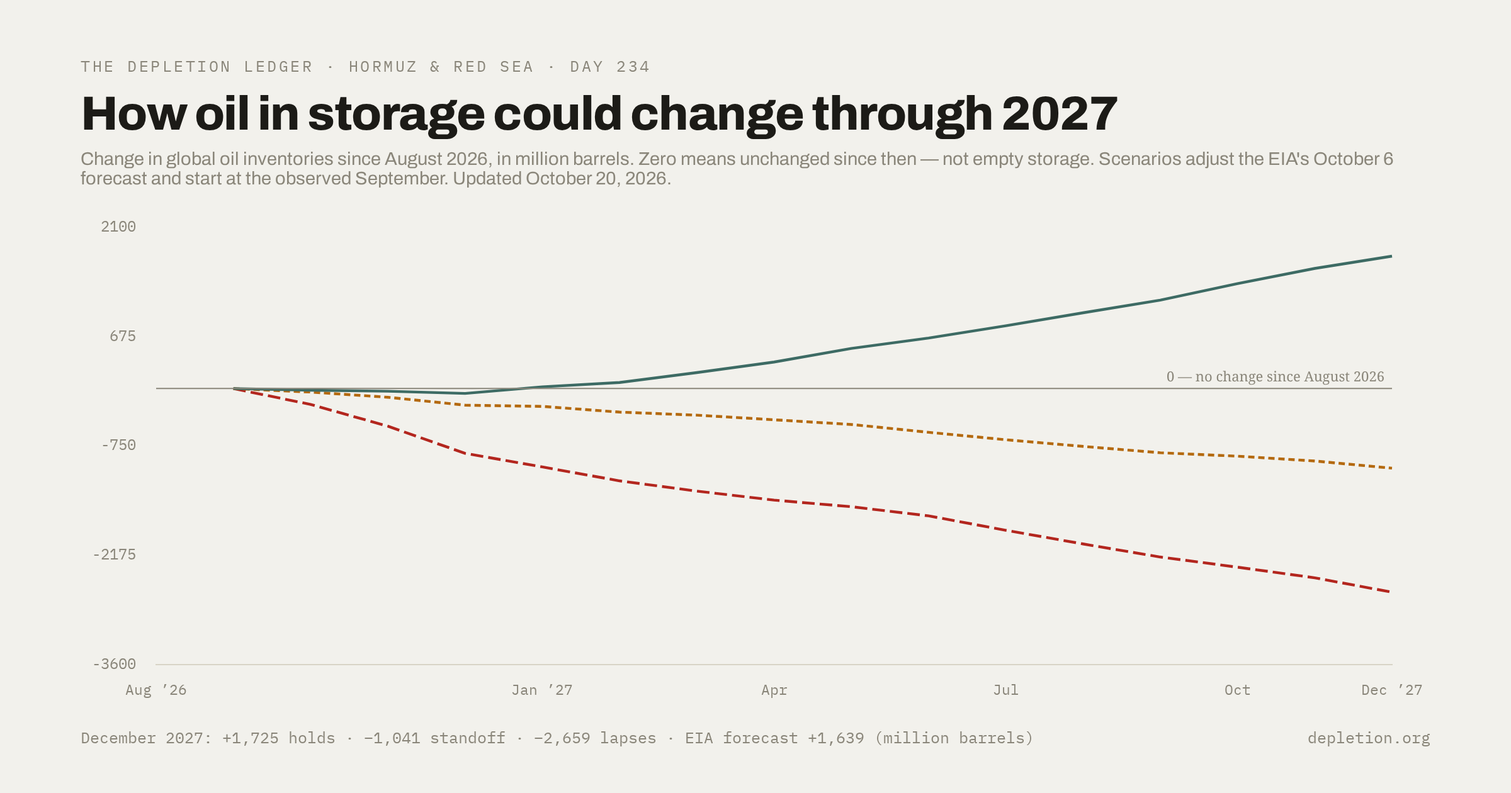
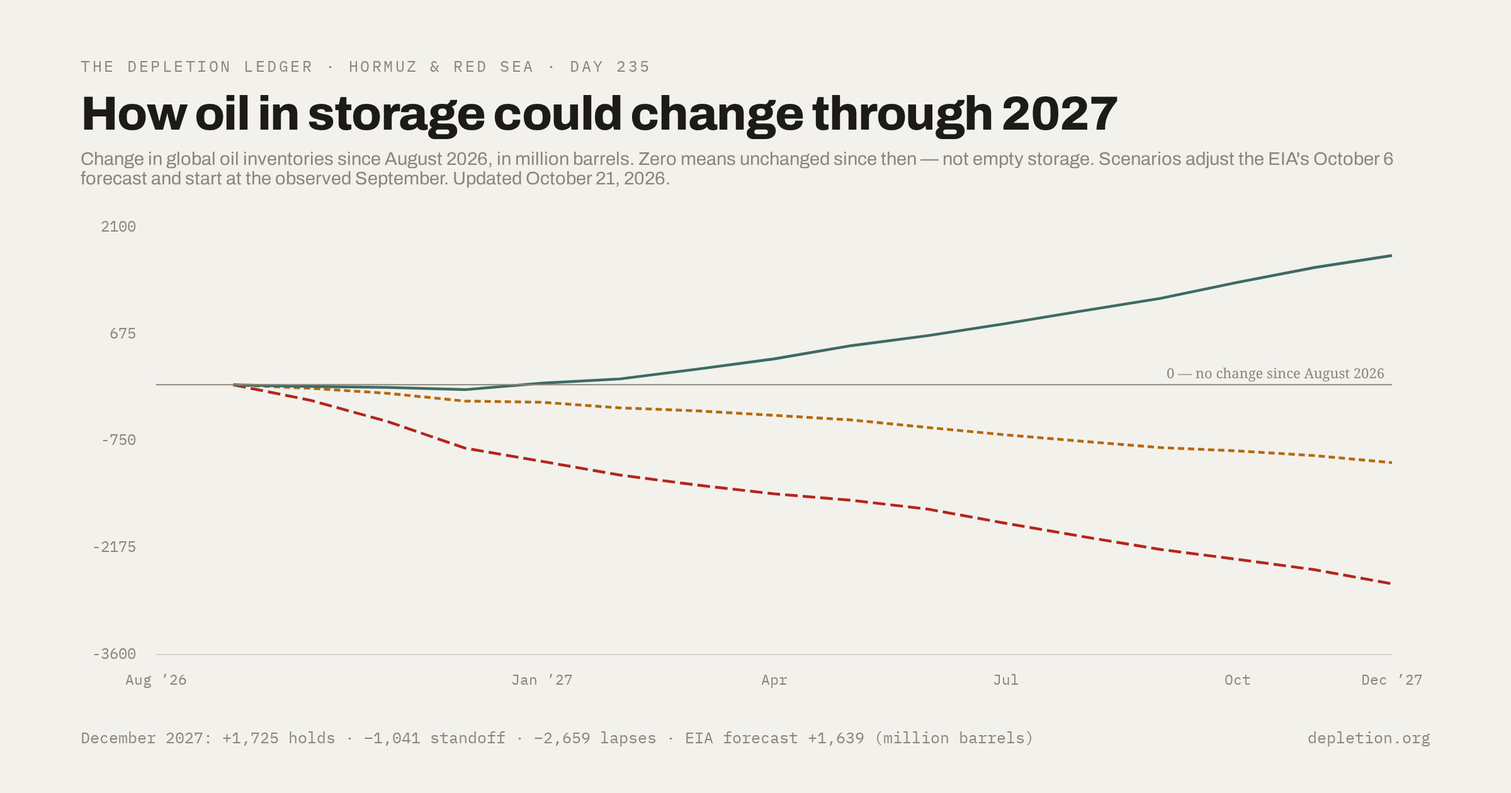
2026-10-21

diff --git a/site/src/data/crisis.ts b/site/src/data/crisis.ts
@@ -6,7 +6,7 @@
 // real observation with a source; `approx: true` marks a source's rounded estimate
 // (e.g. "Brent near $80 on Jun 22") and renders as a hollow marker.
 
-export const DATA_AS_OF = "2026-10-20";
+export const DATA_AS_OF = "2026-10-21";
 // War began Feb 28, 2026 (report: "Pre-war (Feb 28)"; ACLED damage inventory "since Feb 28"; IEA supply loss "since Feb").
 // Day count = days elapsed since Feb 28 → Sep 9, 2026 = Day 193.
 export const CRISIS_DAY_1 = "2026-02-28";
@@ -241,6 +241,7 @@ export const gasolineYtd: SeriesPoint[] = [
   { date: "2026-10-18", value: 4.2988, note: "AAA release, Oct 18" },
   { date: "2026-10-19", value: 4.2953, note: "AAA release, Oct 19" },
   { date: "2026-10-20", value: 4.2786, note: "AAA release, Oct 20" },
+  { date: "2026-10-21", value: 4.2644, note: "AAA release, Oct 21" },
 ];
 export const gasolinePreCrisis = 2.81; // Jan 2026 monthly avg (BTS/EIA)
 
@@ -298,6 +299,7 @@ export const dieselYtd: SeriesPoint[] = [
   { date: "2026-10-18", value: 6.3224, tip: "AAA", note: "AAA — down $0.0052 after five straight rises; $0.2052 below the Sep 22 record" },
   { date: "2026-10-19", value: 6.3187, tip: "AAA", note: "AAA — second straight decline, down $0.0037" },
   { date: "2026-10-20", value: 6.3199, tip: "AAA", note: "AAA — up $0.0012, ending the two-day decline; still $0.21 below the Sep 22 record" },
+  { date: "2026-10-21", value: 6.3174, tip: "AAA", note: "AAA — down $0.0025 after a one-day rise; still $0.21 below the Sep 22 record" },
 ];
 export const dieselOldRecord = 5.85; // June 2022 AAA record (broken Sep 4)
 export const dieselPreWar = 3.72; // Feb 27, just before the war — the "up NN%" baseline
@@ -353,7 +355,7 @@ export const dieselPriorRise = (() => {
 })();
 export const stats = [
   { label: "Brent", value: "$108.79", sub: "Oct 20 settlement · December contract · down $0.76" },
-  { label: "US diesel (AAA)", value: `$${lastDiesel.value.toFixed(2)}`, sub: `${shortStatDate(lastDiesel.date)} · ${dieselStreak > 0 ? (dieselStreak === dieselYtd.length - 1 - dieselYtd.indexOf(dieselRecord) ? `${wordNum(dieselStreak)} straight drops from the ${shortStatDate(dieselRecord.date)} record $${dieselRecord.value.toFixed(4)}` : (dieselStreak === 1 ? (dieselPriorRise > 0 ? `down after ${wordNum(dieselPriorRise)} straight rise${dieselPriorRise === 1 ? "" : "s"}` : "down again") : `down ${wordNum(dieselStreak)} days in a row`)) + " · " : lastDiesel.value > dieselYtd[dieselYtd.length - 2].value && dieselPriorStreak.days > 0 ? `first rise after ${wordNum(dieselPriorStreak.days)} straight declines${dieselPriorStreak.fromRecord ? ` off the ${shortStatDate(dieselRecord.date)} record` : ""} · ` : ""}+${dieselUpPct}% vs pre-war $3.72` },
+  { label: "US diesel (AAA)", value: `$${lastDiesel.value.toFixed(2)}`, sub: `${shortStatDate(lastDiesel.date)} · ${dieselStreak > 0 ? (dieselStreak === dieselYtd.length - 1 - dieselYtd.indexOf(dieselRecord) ? `${wordNum(dieselStreak)} straight drops from the ${shortStatDate(dieselRecord.date)} record $${dieselRecord.value.toFixed(4)}` : (dieselStreak === 1 ? (dieselPriorRise > 0 ? (dieselPriorRise === 1 ? "down after yesterday’s rise" : `down after ${wordNum(dieselPriorRise)} straight rises`) : "down again") : `down ${wordNum(dieselStreak)} days in a row`)) + " · " : lastDiesel.value > dieselYtd[dieselYtd.length - 2].value && dieselPriorStreak.days > 0 ? `first rise after ${wordNum(dieselPriorStreak.days)} straight declines${dieselPriorStreak.fromRecord ? ` off the ${shortStatDate(dieselRecord.date)} record` : ""} · ` : ""}+${dieselUpPct}% vs pre-war $3.72` },
   { label: "US gasoline (AAA)", value: `$${lastGasoline.value.toFixed(2)}`, sub: `${shortStatDate(lastGasoline.date)} · +${gasUpPct}% vs Jan $2.81 (AAA)` },
   { label: "SPR", value: "283.0M", sub: "Oct 9 · unchanged on the week · down 132.4M from pre-war 415.4M · lowest since Nov 1982" },
   { label: "US diesel & heating oil", value: "102.6M", sub: "Oct 9 · down 2.5M in a week · 12.3% below last year · East Coast stocks 22% below last year" },
@@ -652,9 +654,9 @@ export const watchGroups: { when: string; items: WatchItem[] }[] = [
     when: "Any day",
     items: [
       { item: "Whether Saudi oil supplies keep moving. The Oct 13 attack damaged Aramco’s offices; no production damage has been reported (Reuters, Oct 14). The coalition said it intercepted a missile aimed at Yanbu on Oct 16; it didn’t identify the attacker (Yemen Monitor). Yanbu is the Red Sea outlet for the East–West pipeline, reported at 5.8M barrels a day on Oct 6; its sustained average is unverified (Bloomberg, Oct 12).", why: "Watch for confirmed production losses, terminal damage at Yanbu, and whether tanker loadings keep up with pipeline flows." },
-      { item: "Whether a new proposal leads to a US–Iran agreement. Qatar and Pakistan submitted a compromise plan, sources told The New Arab on Oct 20. Pakistan’s army chief reportedly delivered it in Tehran. No agreement has been officially announced.", why: "Watch for an agreement, a change in the blockade, or renewed strikes. Any could change how much oil gets through." },
-      { item: "Whether the Yemen offensive changes Red Sea shipping. Britain said on Oct 20 that RAF Typhoons will fly defensive missions to protect Saudi cities and infrastructure, without striking the Houthis (UK Ministry of Defence). Egypt’s parliament has postponed its vote on military support, which would depend on a Saudi request (Al Jazeera, Oct 19).", why: "Watch whether more countries provide military support and whether shipping routes become safer. A confirmed Houthi attack on non-Saudi shipping could send container traffic back around Africa." },
-      { item: "Whether oil keeps moving through Hormuz despite attacks. Kpler put crude exports at about 82% of pre-war levels and refined products at 44% (DPA, Oct 20). UKMTO’s latest weekly assessment recorded 12 attacks (Splash247, Oct 19). Iranian mine-strike claims remain unverified. Two Petro Dolphin crew remain missing after the Oct 11 attack.", why: "Watch for crew updates, confirmed losses, and safe passage. Export volumes and ship counts measure different things; this report doesn’t replace the map’s earlier Kpler reading." },
+      { item: "Whether a new proposal leads to a US–Iran agreement. Qatar and Pakistan submitted a compromise plan involving nuclear inspections and access to frozen Iranian funds, sources told The New Arab on Oct 20. The sources described positive responses from both sides; no agreement has been officially announced.", why: "Watch for an agreement, a change in the blockade, or renewed strikes. Any could change how much oil gets through." },
+      { item: "Whether the Yemen offensive changes Red Sea shipping. RAF Typhoons will fly defensive missions to protect Saudi cities and infrastructure, without striking the Houthis (UK Ministry of Defence, Oct 20). Egypt’s proposed military support still requires parliamentary approval and a Saudi request. Houthi claims of strikes on the Shaybah oilfield remain unverified (Reuters, Oct 20).", why: "Watch whether more countries provide military support and whether shipping routes become safer. A confirmed Houthi attack on non-Saudi shipping could send container traffic back around Africa." },
+      { item: "Whether oil keeps moving through Hormuz despite attacks. A tanker fire off Bukha, Oman, was extinguished on Oct 21; a second tanker reported a projectile strike off Al Faw, Iraq, on Oct 20. Both crews are safe, according to UKMTO. Kpler put crude exports at 82% of pre-war levels and refined products at 44% (DPA, Oct 20). Bloomberg separately reports preliminary regional oil exports just above pre-war levels (Oct 20).", why: "Watch for safe passage and sustained volumes. Regional exports include routes beyond Hormuz; attacks can continue while more oil gets out. Two Petro Dolphin crew remain missing after the Oct 11 attack." },
       { item: "Whether Russian diesel reaches buyers. US Treasury license 135 permits diesel transactions through Apr 7, 2027. An Oct 16 order also waived the new Graham Act measures, leaving existing sanctions in place (White House). Novak reported an oil tanker’s departure from Dikson on Oct 17, but its cargo and destination are unverified (Anadolu). That doesn’t establish a diesel delivery.", why: "Watch for verified diesel cargoes and further refinery shutdowns. The IEA says limited operating capacity constrains Russian exports, so easing restrictions may do little to relieve the shortage." },
     ],
   },
@@ -1113,6 +1115,17 @@ export const wtiNonFred = wtiWeekly.filter((p) => !p.fred).map((p) => p.date);
 // times, which is impossible. The warnings are the primary source; the API field is
 // wrong. Rows date the INCIDENT (Oct 13), not the report issuance (Oct 14, time-late).
 // Originals archived: research/sources/ukmto-2026-10-14-review/ (PDFs + provenance).
+// #180 (Oct 21 fetch): UKMTO WARNING 180-26, time-late report — tanker struck by an
+// unknown projectile 30NM southeast of Al Faw, Iraq (northern Arabian Gulf), 20 Oct
+// 1830 UTC (explicit "Incident Date: 20 Oct 2026" in the body); crew safe, no reported
+// damage/environmental impact. Registered Oct 21 10:26 UTC. (QC Intel's "near Duqm"
+// headline is a misplacement — the UKMTO record says Al Faw; primary source wins.)
+// 28082035 (Oct 21 fetch): the API REPLACED this record — the Oct 10 advisory (tanker
+// and military forces, Gulf of Oman, sitecoreId 996a55c6) is gone; the slot now holds
+// UKMTO WARNING 179-26: tanker struck by an unknown projectile 11NM west of Bukha,
+// Oman (Strait of Hormuz), 21 Oct 0145 UTC (explicit in body), fire extinguished, at
+// anchor, all crew safe. New sitecoreId e89b2678. Mirrored here as attack/2026-10-21;
+// the internal warning number 179-26 explains the publicly missing #179.
 // NOTE: keep this array's body to entry lines only — ukmto-fetch.mjs parses each line
 // strictly and rewrites the whole array on --apply, so inline comments would break it.
 export const ukmtoIncidents: { num: number; type: "attack" | "hijack" | "advisory" | "suspicious activity"; date: string }[] = [
@@ -1213,7 +1226,8 @@ export const ukmtoIncidents: { num: number; type: "attack" | "hijack" | "advisor
   { num: 176, type: "attack", date: "2026-10-17" },
   { num: 177, type: "attack", date: "2026-10-18" },
   { num: 178, type: "advisory", date: "2026-10-20" },
-  { num: 28082035, type: "advisory", date: "2026-10-10" },
+  { num: 180, type: "attack", date: "2026-10-20" },
+  { num: 28082035, type: "attack", date: "2026-10-21" },
 ];
 
 // Reports that existed before the captured window — the smallest number present,
@@ -1224,7 +1238,7 @@ export const ukmtoReportsBeforeWindow = Math.min(...ukmtoIncidents.map((i) => i.
 
 // Capture bounds are explicit: a quiet day must not shorten the covered period.
 export const ukmtoCoverageStart = "2026-07-01";
-export const ukmtoCoverageEnd = "2026-10-20";
+export const ukmtoCoverageEnd = "2026-10-21";
 
 // Include every Monday–Sunday week, even when it has no attack reports.
 // Partial weeks cover fewer than seven days and don't enter full-week comparisons.

diff --git a/research/logs/review-2026-10-21.md b/research/logs/review-2026-10-21.md
@@ -1,0 +1,70 @@
+# October 21 accuracy/copy review and model diagnosis
+
+Reviewed current uncommitted diff, daily log, raw UKMTO payload, style guide, live AAA release, original proposal article, primary Kpler briefing and model code. No numerical series, published probabilities, issued model assumptions or map labels changed. Findings are reviewable by Qwen; no commit/deployment.
+
+## Model: unchanged output is not a successful test of recovery
+
+Three distinct objects must not be conflated:
+
+1. Published judgment probabilities: 10/50/40 (research/MODEL.md). These are author judgments under event rules, not automatically replaced by the filter.
+2. Diagnostic branch filter: research/model/branch_filter.py, current state nearly 100% standoff, HORIZON rounded to 15/50/35. It is a likelihood calculation with judgment parameters, not an empirically validated causal supply model.
+3. Storage paths: frozen v2 production/consumption assumptions, site/src/data/world-stocks-assumptions-v2026-10-15.json. Standoff fixes world production at September’s 101.30 mb/d through December 2026, then adds 2.0 mb/d non-Gulf growth over 2027. Daily shipping inputs do not enter these balances. Changing odds alone cannot change a conditional path.
+
+### Diagnostic reproduced from actual code, read-only
+
+Imported state_posterior and horizon_weights; used prior [.1,.5,.4], transits 12, shipping losses 1 and Brent 108.79. Changed only volume, hypothetically, not any recorded input:
+
+| Hypothetical Hormuz volume (mb/d) | HORIZON holds / standoff / lapse, % (rounded) |
+|---|---|
+| 7.6 (current input) | 15.0 / 50.0 / 35.0 |
+| 7.9 | 15.0 / 50.0 / 35.0 |
+| 10 | 15.0 / 50.0 / 35.0 |
+| 14 | 15.0 / 50.0 / 35.0 |
+| 17.3 (illustrative pre-war-scale input) | 15.0 / 50.0 / 35.0 |
+| 20 | 15.0 / 50.0 / 35.0 |
+
+Not literally identical internally: at 17.3 the holds state share is ~0.000136%, versus ~0.000003% at 7.6, but display rounding conceals the tiny change. At 17.3, HORIZON holds is about 15.00006%. 17.3/20 are stress-test inputs, not verified new same-definition observations and not regional-total replacements.
+
+The main suppressor is the **price likelihood**: holds Normal(mean 88, sd 4); standoff Normal(mean 97, sd 9). At 108.79, price alone favors standoff over holds by ~138,417:1. Re-running at hypothetical volume 17.3 without the price signal gives state ~15.83% holds / 84.17% standoff, showing the other signals/prior also lean standoff. At hypothetical Brent 88 with the other signals fixed and volume 17.3, HORIZON becomes ~33.49/41.78/24.73. These are parameter diagnostics, not recommended odds.
+
+The near-certain standoff state maps to the **preselected transition row [0.15,0.50,0.35]**. This is why the displayed HORIZON repeats. It is not proof that observed recovery leaves future risk unchanged, and it is not a literal hard-coded output or general floor. Because high prices may also reflect freight, insurance and refinery constraints, treating them as overwhelming evidence against a functioning export system needs an empirical justification. This is a model-design concern, not an arithmetic bug discovered in this pass.
+
+Current inputs also repeat older 7.6 volume / 12 transit observations while newer reports are parked for reconciliation. The model therefore has BOTH a stale-input problem and a sensitivity problem; changing 7.6 alone does not resolve the latter. Published judgment odds and fixed storage paths add two further manual decision layers.
+
+### Recommendation, without silently revising a forecast
+
+- Reconcile and date one primary Hormuz series and a separate regional-export series now; publish scope/window/baseline and revisions. Do not substitute 24 mb/d regional exports into the strait-input field.
+- Review the production assumption separately from shipping safety. Sustained recovery through bypasses can invalidate “no further Gulf recovery” while attacks persist. Exports alone do not measure production, consumption or stock changes.
+- Require sensitivity diagnostics for price, counts and volume plus a reasoned transition table before presenting unchanged filter output as reassurance. Do not merely retune until a preferred answer appears.
+- Keep issued forecasts intact for scoring; any adopted recovery revision needs a new dated version. Existing midpoint sensitivity already demonstrates that production recovery can reverse the 2027 direction; it does not estimate the most likely path.
+
+## What “above pre-war” does and does not establish
+
+Read Bloomberg syndicated at https://gcaptain.com/iran-strikes-more-ship-engine-rooms-in-ramp-up-of-hormuz-attacks/ (Oct 20): preliminary Kpler seven-day **Middle East regional oil exports fractionally above pre-war**, despite attacks. This supports the qualitative report and is stronger than the daily log’s unspecified Indian Opinion citation. It does not say strait flows, global production, delivered fuel availability or global stock balance exceed pre-war values.
+
+Separately retrieved the ORIGINAL primary briefing:
+https://marketing.kpler.com/hubfs/Media%20Briefings%20pdfs/Kpler%20media%20briefing%2019%20Oct%202026.pdf
+(download /tmp/kpler-2026-10-19.pdf, read with pypdf; flow data through October 17):
+
+- Strait transits: 7.894 mb/d seven-day average, pre-war 17.267; about 45.7% of baseline. Confirmed floors, preliminary, excluding Iranian-origin transits; oil buckets include crude/condensate, CPP, DPP, Chem/Bio, excluding NGL/LNG.
+- Total Hormuz Clearance adds Gulf of Oman ship-to-ship net exports: 10.173 mb/d seven-day average, about 41% below baseline. This is a DIFFERENT measure from strait transits.
+- Regional cumulative measure adds Fujairah/Oman terminal loadings and Red Sea: 19.041 mb/d, about 19% below baseline in THIS briefing. Broader no-origin-attribution STS categories have their own caveats; Iranian exclusion is established for strait transits only (methodology p3).
+- Later above-pre-war regional reports cannot be reconciled to this earlier briefing without their full definitions, cutoff and revision vintage. Do not label either one false because they differ. The original table also helps locate why conflating “transits,” “clearance” and “regional” produces contradictory headlines.
+
+The public DPA crude-only 82% / products 44% report remains a separate definition and does not mean 7.9/17.3 equals 82%. Corrected the daily log’s explicit arithmetic conflation to ~46%; public numeric data unchanged. Secondary ENB misstates/omits some briefing components, so original primary briefing should govern a new reconciliation.
+
+## Public copy edits / factual qualifications
+
+- **Original:** reported plan offers ~$6B frozen funds and US approval/prior Iranian agreement. **Replacement:** attributed proposed nuclear inspections and access to funds; anonymous sources described positive responses, no official agreement. Full primary article fetched and read https://www.newarab.com/news/exclusive-mediators-submit-new-peace-proposal-iran-us says **interest generated on $6B**, not release of the full principal. Its live page uses stronger/conflicting shorthand; source disagreement recorded, not converted into a concluded agreement. Removed amount and operational details for brevity.
+- **Original:** expanding paragraphs on both new tanker hits plus old weekly attacks. **Replacement:** shorter Bukha/Al Faw reports and safe-crew attribution; keeps grade-specific volume percentages, adds independently sourced regional-recovery distinction (Bloomberg link above). Dropped the phrase “attacked vessels go dark”: not reporting an attack is not necessarily switching off AIS. The source discusses reporting refusal, not a proven AIS cause.
+- **Original:** Egypt vote date reported Oct 26, no Saudi-request condition in new copy. **Replacement:** parliamentary approval + Saudi request remain necessary; omit unverified new vote-date precision. Prior reporting and prior review establish conditional support. Shaybah remains a Houthi claim, not confirmed damage.
+- **Original:** diesel derived stat “down after one straight rise.” **Replacement:** “down after yesterday’s rise.” Same arithmetic, more natural English.
+- **Original daily log:** gasoline fourth straight decline. **Replacement:** sixth, recounted October 16–21 from current series. AAA primary https://gasprices.aaa.com/ confirms October 21 regular 4.2644 / diesel 6.3174, prior regular 4.2786 / diesel 6.3199. Diesel decline −0.0025 and record gap 0.2102 verified. No price values changed.
+
+## UKMTO source check
+
+Read research/data/ukmto/ukmto-all-2026-10-21T1318Z.json and provenance. #180 is the October 20 18:30 UTC tanker projectile report 30NM southeast of Al Faw, crew safe/no reported damage; #28082035 body is WARNING 179-26, October 21 01:45 UTC, 11NM west of Bukha, fire extinguished, anchored, crew safe/no reported environmental impact. Public summary matches. New sitecoreId differs from October 10 advisory; replacing an API slot should not erase the archived older event. Prior snapshots preserve its evidence; current chart’s advisory count mirrors latest API. Numerical bookkeeping not changed in this review; Qwen should decide explicit treatment of superseded IDs rather than treating API slots as permanent event identities. No added confirmed shipping loss established by these reports.
+
+This review covers the changed public copy and model question; log-only geopolitical claims are not all independently verified. Odds/assumptions untouched pending a documented model decision.
+
+Validation: site build, frozen-model drift check (all versions), local 22-chart/endpoint verification, desktop/mobile browser checks (1440/390; no script errors or page overflow), and whitespace check passed. Social image checked for October 21 / Day 235. No commit or deployment.

diff --git a/research/logs/2026-10-21.md b/research/logs/2026-10-21.md
@@ -1,0 +1,108 @@
+# 2026-10-21 — daily pass (day 235, site convention)
+
+## ~07:00 MDT — morning pass start
+
+**Calendar:** Wednesday. **WPSR w/e Oct 16 due TODAY 10:30 ET (8:30 MDT)** — the first
+print since the blockade began in earnest; the watchlist's "Oct 21" group is the live
+item. STEO (Oct 6), OMR (Oct 14), BLS (Sep) ingested. FOMC Oct 27–28 (hike call p=0.60);
+Israel election Oct 27. `node research/scripts/report-check.mjs all` at 07:02 MDT: all
+four CURRENT — WPSR not yet released (expected ~80 min later).
+
+## ~07:05 MDT — prices (morning, no settlement yet)
+
+- Brent pre-market ~$109.73 (+0.86% as of 3:33 a.m. ET, CNBC):
+  https://www.cnbc.com/amp/2026/10/21/oil-price-today-wti-brent-rise-on-middle-east-worries.html
+  — "WTI, Brent rise on Middle East worries." WTI CFD ~$99.58, +1.8% (TradingEconomics).
+- No settlement points this pass (both settle ~14:30 ET / 19:30 London — evening pass).
+
+## ~07:10 MDT — AAA retail (new, plotted)
+
+- **Regular $4.2644, diesel $6.3174** (release Oct 21, gasprices.aaa.com). Diesel:
+  **−$0.0025, first decline after a one-day rise** (still ~$0.21 below the Sep 22 record
+  $6.5276). Gasoline: −$0.0142 (sixth straight daily decline, Oct 16–21; recounted from the published series). Both plotted; DATA_AS_OF →
+  2026-10-21. Stats cells auto-derived: "down after one straight rise" / "+70% vs pre-war".
+
+## ~07:10 MDT — UKMTO (fetch: +1 attack, 1 reclassification flag)
+
+`ukmto-fetch.mjs --apply`:
+
+- **#180 attack, dated 2026-10-20** — UKMTO WARNING 180-26, a **time-late report**: a
+  tanker **struck by an unknown projectile 30 nm southeast of Al Faw, Iraq** (northern
+  Arabian Gulf, outside the strait), incident 20 Oct 1830 UTC (explicit in the body);
+  crew safe, no reported damage or environmental impact. Registered Oct 21 10:26 UTC.
+  Applied (auto-append). (QC Intel's "near Duqm" headline misplaces the location — the
+  UKMTO record says Al Faw; primary source wins, wire discrepancy logged.)
+- **#28082035 (FLAG → APPLIED): the API REPLACED the record.** The old Oct 10 advisory
+  (tanker and military forces, Gulf of Oman, sitecoreId 996a55c6) is gone; the slot now
+  holds **UKMTO WARNING 179-26**: a tanker struck by an unknown projectile **11 nm west
+  of Bukha, Oman** (Strait of Hormuz), incident 21 Oct 0145 UTC (explicit in the body),
+  fire extinguished, tanker at anchor, **all crew safe, no reported environmental
+  impact**. New sitecoreId e89b2678. Wire copy (UKMTO via Reuters, Oct 21 — Asharq
+  Al-Awsat: https://english.aawsat.com/world/5331918-ukmto-ship-attacked-near-strait-hormuz)
+  matches the record exactly. Applied: type attack, date 2026-10-21. The internal warning
+  number 179-26 explains the publicly missing #179 (the 161 gap remains unexplained).
+  Full payload archived: research/data/ukmto/ukmto-all-2026-10-21T1318Z.json (+
+  provenance).
+- UKMTO's latest weekly assessment (Oct 19): **12 attacks** for the week, and it admits it
+  is "struggling to accurately report true number of attacks" — most attacked vessels no
+  longer report (Splash247: https://splash247.com/hormuz-attacks-overwhelm-ukmto/).
+  Watchlist updated.
+- Numbers 161 and 179 in neither API nor our records (known gap; UKMTO undercount).
+- coverageEnd → 2026-10-21 (verified current as of the fetch).
+
+## ~07:15 MDT — news sweep (Brave, pd)
+
+- **The middle-ground proposal, detail (The New Arab live page, Oct 20 evening):** the
+  plan — carried to Tehran by Pakistan's army chief — **offers ~$6B of Iranian funds
+  frozen in Qatari banks** as a partial response to Iran's demand to recover frozen
+  assets; sources say it has **US approval and prior Iranian agreement**, and **Iran
+  agreed to a secret IAEA visit to its nuclear facilities**. Still: no official agreement
+  announced. (TNA live page, fetched via r.jina.ai; direct curl Cloudflare-blocked.)
+- **Egypt:** Sisi asked parliament to **authorize Egyptian troops to help defend Saudi
+  Arabia** as Houthi attacks intensify (airports targeted; CBS, Oct 20). The vote is
+  reported for **Oct 26** (the watchlist's "Oct 26" group already anticipates it).
+- **Houthis claim strikes have extended to the Shaybah oilfield** (Daily Sun, Oct 20,
+  citing Reuters); Saudi authorities did not confirm, Reuters could not independently
+  verify (Journal Record, Oct 20). Logged as a claim; watchlist note added.
+- **Diplomacy friction:** Araghchi (Tuesday): Iran–Russia have "the **closest strategic
+  relationship in history**" — direct contradiction of Trump's claim Moscow is "doing very
+  little, if anything, to help" Iran. Lavrov, on his first Tehran visit since the war
+  began, called the US/Israeli strikes "illegal" (CBS live, Oct 20 8:58 PM ET).
+  Netanyahu shared a video of a Trump call Monday suggesting **new joint US–Israeli
+  strikes** ("a job to finish"); Hegseth met Netanyahu in Israel Monday (unannounced visit).
+- **Oman:** Sultan Haitham's first state visit to the UK in 44 years; King Charles praised
+  Oman's "noble efforts" to help reopen the Strait of Hormuz (CBS, Oct 20).
+- **Kpler via ENB (data through Oct 17): Hormuz transits ~7.9M b/d vs 17.3M pre-war
+  (~46%, not 82%; the DPA crude-only 82% is a separate measure); total Middle East oil flows 24.0M b/d (week e/Oct 18) — ABOVE the prewar 23.3M**
+  (Indian Opinion, Oct 20). The 7.9M transit figure is a candidate for the open Kpler
+  basis reconciliation (site/model still on 7.6M from the Oct 12 print) — NOT applied;
+  logged here for the user's basis decision.
+- **Saudi August supply** (6.0M b/d, −2.3 MoM, three-decade low, IEA Sep OMR) — already
+  in the site's supply copy; not new.
+- **Japan refinery utilization 83%** (QC headline, Oct 21) — paywalled, no independent
+  confirmation located; NOT applied, logged only.
+
+## ~07:20 MDT — model (morning, pre-WPSR)
+
+- Inputs: transits 12, tankers 1 (GFS Pride — the Bukha tanker was hit but is anchored
+  with crew safe, NOT a confirmed loss), volume 7.6 (basis reconciliation open),
+  brent 108.79 (last settlement), prior 0.10/0.50/0.40.
+- **STATE 0/100/0 → HORIZON 15/50/35 — FLAT** (third consecutive flat run). Judgment
+  unchanged: 10/50/40.
+
+## ~07:40 MDT — external review copyedits → prod deploy
+
+- External review (second round) edited two files after my morning staging deploy:
+  - `crisis.ts` watchlist (07:26): diplomacy item condensed ("compromise plan involving
+    nuclear inspections and access to frozen Iranian funds … positive responses from both
+    sides" — my $6B/IAEA detail dropped); Yemen item condensed (Sisi phrasing, Oct 26 vote
+    detail dropped, Shaybah claim kept); Hormuz item condensed (Bukha fire extinguished +
+    Al Faw projectile, "both crews safe per UKMTO", 82%/44% Kpler kept, UKMTO "12
+    attacks"/"struggling" quote dropped, Bloomberg 24.0M regional-exports figure added).
+    All consistent with the logged primary sources — accepted as-is.
+  - `content/docs/model.md` (07:28): the "How the Model Works" page. Spot-checked the
+    figures (standoff table −1,547.8 vs Feb; −507 Aug / −509 Sep starts; −1,041 on the
+    dashboard; 50% standoff weight) — internally consistent with the published v2 model.
+- Rebuild + geometry gate PASS; **prod deploy `b0bd33c7`** (bundle Dun0KCsX, green light
+  from user); verify-live prod PASS. Staging re-synced to the identical bundle.
+- Still pending this morning: WPSR w/e Oct 16 (10:30 ET) — user will prompt.
